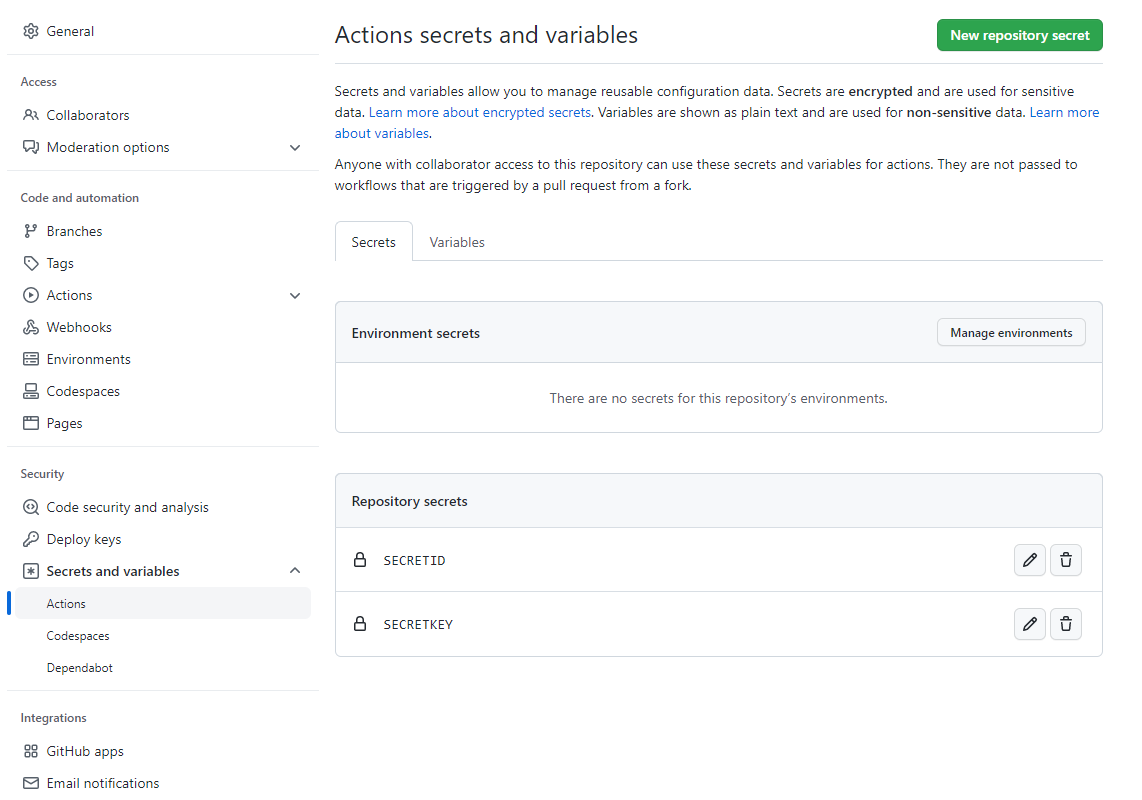
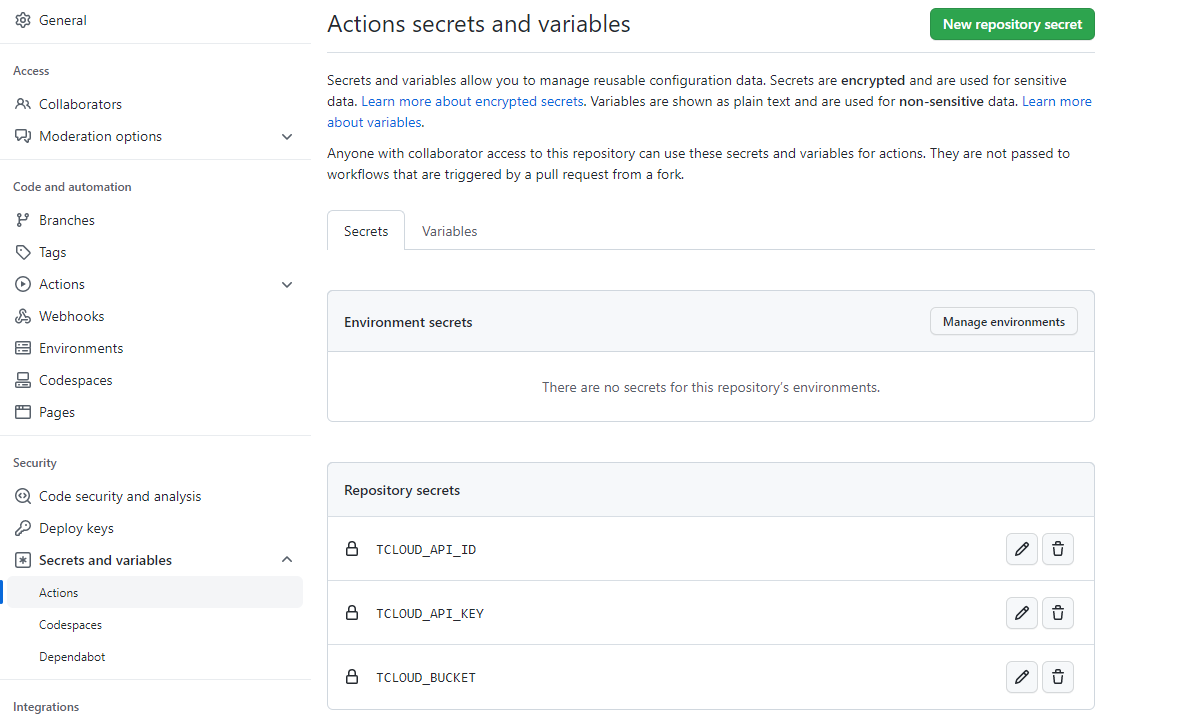
Site updated: 2023-02-14 22:53:32

diff --git a/7237598ddf6f/index.html b/7237598ddf6f/index.html
@@ -36,7 +36,7 @@
 <meta property="og:image" content="https://www.xdeandtom.asia/img/githubpagescdn6.png">
 <meta property="og:image" content="https://www.xdeandtom.asia/img/githubpagescdn7.png">
 <meta property="article:published_time" content="2023-02-09T14:29:09.000Z">
-<meta property="article:modified_time" content="2023-02-14T14:13:42.587Z">
+<meta property="article:modified_time" content="2023-02-14T14:53:16.436Z">
 <meta property="article:author" content="XDEandTOM">
 <meta property="article:tag" content="Github Pages">
 <meta property="article:tag" content="CDN">
@@ -207,7 +207,7 @@
                   <i class="far fa-calendar-check"></i>
                 </span>
                 <span class="post-meta-item-text">更新于</span>
-                <time title="修改时间：2023-02-14 22:13:42" itemprop="dateModified" datetime="2023-02-14T22:13:42+08:00">2023-02-14</time>
+                <time title="修改时间：2023-02-14 22:53:16" itemprop="dateModified" datetime="2023-02-14T22:53:16+08:00">2023-02-14</time>
               </span>
             <span class="post-meta-item">
               <span class="post-meta-item-icon">
@@ -263,9 +263,9 @@
 <p>照着上面表格填就可以达到负载均衡的效果了<br><del>这样貌似还能加速网站的速度?我不知道,我也不晓得</del></p>
 <h2 id="Github-Actions-COS-CDN"><a href="#Github-Actions-COS-CDN" class="headerlink" title="Github Actions+COS+CDN"></a>Github Actions+COS+CDN</h2><h3 id="个人感觉这个是最好的方法了"><a href="#个人感觉这个是最好的方法了" class="headerlink" title="个人感觉这个是最好的方法了"></a>个人感觉这个是最好的方法了</h3><h3 id="创建COS"><a href="#创建COS" class="headerlink" title="创建COS"></a>创建COS</h3><p>进入<a target="_blank" rel="noopener" href="https://console.cloud.tencent.com/cos">COS控制台</a> 选择新建储存桶<br>地区可以选择离自己近点的地方 (没有备案推荐选香港)<br>访问权限选择公有读私有写<br><img data-src="/img/githubpagescdn4.png" alt="腾讯COS"><br>在左边的菜单找到基础配置 接着点击静态网站<br>把静态网站打开就行了 (推荐打开强制HTTPS)<br><img data-src="/img/githubpagescdn5.png" alt="腾讯COS">  </p>
 <h3 id="添加CDN"><a href="#添加CDN" class="headerlink" title="添加CDN"></a>添加CDN</h3><p>接着打开<a target="_blank" rel="noopener" href="https://console.cloud.tencent.com/cdn">腾讯云CDN控制台</a> 新建一个域名<br>步骤就和<a href="#%E5%BC%80%E6%95%B4">这里</a> 差不多 就不讲了 直接跳到源站配置<br>跟着下面选就好了 然后保存就行了 (注意添加访问权限)<br><img data-src="/img/githubpagescdn6.png" alt="腾讯COS">  </p>
-<h3 id="添加密钥"><a href="#添加密钥" class="headerlink" title="添加密钥"></a>添加密钥</h3><p>这里要在添加腾讯云账号的API密钥<br>可以在<a target="_blank" rel="noopener" href="https://console.cloud.tencent.com/cam/capi">API密钥管理</a> 获取<br>打开Github仓库的Settings 找到Actions secrets and variables<br>然后点击New repository secret<br>分别添加<code>SECRET_ID</code>和<code>SECRET_KEY</code><br><img data-src="/img/githubpagescdn7.png" alt="API">  </p>
+<h3 id="添加密钥"><a href="#添加密钥" class="headerlink" title="添加密钥"></a>添加密钥</h3><p>这里要在添加腾讯云账号的API密钥<br>可以在<a target="_blank" rel="noopener" href="https://console.cloud.tencent.com/cam/capi">API密钥管理</a> 获取<br>打开Github仓库的Settings 找到Actions secrets and variables<br>然后点击New repository secret<br>分别新建三条条名为<code>TCLOUD_API_ID</code>和<code>TCLOUD_API_KEY</code>,<code>TCLOUD_BUCKET</code>，值为腾讯云API秘钥SecretId与SecretKey还有储存桶名称的secret<br><img data-src="/img/githubpagescdn7.png" alt="API">  </p>
 <h3 id="新建Workflows"><a href="#新建Workflows" class="headerlink" title="新建Workflows"></a>新建Workflows</h3><p>在Actions中选择New workflows 然后选择set up a workflow yourself<br>这时候就会自动新建一个空白的文件 然后把下面的代码复制进去就好了  </p>
-<figure class="highlight txt"><table><tr><td class="gutter"><pre><span class="line">1</span><br><span class="line">2</span><br><span class="line">3</span><br><span class="line">4</span><br><span class="line">5</span><br><span class="line">6</span><br><span class="line">7</span><br><span class="line">8</span><br><span class="line">9</span><br><span class="line">10</span><br><span class="line">11</span><br><span class="line">12</span><br><span class="line">13</span><br><span class="line">14</span><br><span class="line">15</span><br><span class="line">16</span><br><span class="line">17</span><br><span class="line">18</span><br><span class="line">19</span><br><span class="line">20</span><br><span class="line">21</span><br><span class="line">22</span><br></pre></td><td class="code"><pre><span class="line">name: Upload to COS</span><br><span class="line"></span><br><span class="line">on: [push]</span><br><span class="line"></span><br><span class="line">jobs:</span><br><span class="line">  build:</span><br><span class="line"></span><br><span class="line">    runs-on: ubuntu-latest</span><br><span class="line"></span><br><span class="line">    steps:</span><br><span class="line">    - uses: actions/checkout@v1</span><br><span class="line">    - name: Install coscmd</span><br><span class="line">      run: sudo pip install coscmd</span><br><span class="line">    - name: Configure coscmd</span><br><span class="line">      env:</span><br><span class="line">        SECRET_ID: $&#123;&#123; secrets.SecretId &#125;&#125;</span><br><span class="line">        SECRET_KEY: $&#123;&#123; secrets.SecretKey &#125;&#125;</span><br><span class="line">        BUCKET: 储存桶的名称</span><br><span class="line">        REGION: 储存桶的地区 比如ap-guangzhou</span><br><span class="line">      run: coscmd config -a $SECRET_ID -s $SECRET_KEY -b $BUCKET -r $REGION</span><br><span class="line">    - name: Upload</span><br><span class="line">      run: coscmd upload -rs --delete -f ./ / --ignore &quot;./.git/*&quot;</span><br></pre></td></tr></table></figure>
+<figure class="highlight yml"><table><tr><td class="gutter"><pre><span class="line">1</span><br><span class="line">2</span><br><span class="line">3</span><br><span class="line">4</span><br><span class="line">5</span><br><span class="line">6</span><br><span class="line">7</span><br><span class="line">8</span><br><span class="line">9</span><br><span class="line">10</span><br><span class="line">11</span><br><span class="line">12</span><br><span class="line">13</span><br><span class="line">14</span><br><span class="line">15</span><br><span class="line">16</span><br><span class="line">17</span><br><span class="line">18</span><br><span class="line">19</span><br><span class="line">20</span><br><span class="line">21</span><br><span class="line">22</span><br></pre></td><td class="code"><pre><span class="line"><span class="attr">name:</span> <span class="string">Upload</span> <span class="string">to</span> <span class="string">COS</span></span><br><span class="line"></span><br><span class="line"><span class="attr">on:</span> [<span class="string">push</span>]</span><br><span class="line"></span><br><span class="line"><span class="attr">jobs:</span></span><br><span class="line">  <span class="attr">build:</span></span><br><span class="line"></span><br><span class="line">    <span class="attr">runs-on:</span> <span class="string">ubuntu-latest</span></span><br><span class="line"></span><br><span class="line">    <span class="attr">steps:</span></span><br><span class="line">    <span class="bullet">-</span> <span class="attr">uses:</span> <span class="string">actions/checkout@v1</span></span><br><span class="line">    <span class="bullet">-</span> <span class="attr">name:</span> <span class="string">Install</span> <span class="string">coscmd</span></span><br><span class="line">      <span class="attr">run:</span> <span class="string">sudo</span> <span class="string">pip</span> <span class="string">install</span> <span class="string">coscmd</span></span><br><span class="line">    <span class="bullet">-</span> <span class="attr">name:</span> <span class="string">Configure</span> <span class="string">coscmd</span></span><br><span class="line">      <span class="attr">env:</span></span><br><span class="line">        <span class="attr">SECRET_ID:</span> <span class="string">$&#123;&#123;</span> <span class="string">secrets.TCLOUD_API_ID</span> <span class="string">&#125;&#125;</span></span><br><span class="line">        <span class="attr">SECRET_KEY:</span> <span class="string">$&#123;&#123;</span> <span class="string">secrets.TCLOUD_API_KEY</span> <span class="string">&#125;&#125;</span></span><br><span class="line">        <span class="attr">BUCKET:</span> <span class="string">$&#123;&#123;</span> <span class="string">secrets.TCLOUD_BUCKET</span> <span class="string">&#125;&#125;</span></span><br><span class="line">        <span class="attr">REGION:</span> <span class="string">ap-hongkong</span></span><br><span class="line">      <span class="attr">run:</span> <span class="string">coscmd</span> <span class="string">config</span> <span class="string">-a</span> <span class="string">$SECRET_ID</span> <span class="string">-s</span> <span class="string">$SECRET_KEY</span> <span class="string">-b</span> <span class="string">$BUCKET</span> <span class="string">-r</span> <span class="string">$REGION</span></span><br><span class="line">    <span class="bullet">-</span> <span class="attr">name:</span> <span class="string">Upload</span></span><br><span class="line">      <span class="attr">run:</span> <span class="string">coscmd</span> <span class="string">upload</span> <span class="string">-rfs</span> <span class="string">--delete</span> <span class="string">./</span> <span class="string">/</span> <span class="string">--ignore</span> <span class="string">&quot;./.git/*&quot;</span></span><br></pre></td></tr></table></figure>
 
 <p>然后点击右上角绿色的按钮就能保存了<br>然后每次更新仓库都会自动上传到COS里面了</p>
 <h2 id="CLoudflare"><a href="#CLoudflare" class="headerlink" title="CLoudflare"></a>CLoudflare</h2><p><del>负优化 别看了</del></p>

diff --git a/index.html b/index.html
@@ -195,7 +195,7 @@
                   <i class="far fa-calendar-check"></i>
                 </span>
                 <span class="post-meta-item-text">更新于</span>
-                <time title="修改时间：2023-02-14 22:13:42" itemprop="dateModified" datetime="2023-02-14T22:13:42+08:00">2023-02-14</time>
+                <time title="修改时间：2023-02-14 22:53:16" itemprop="dateModified" datetime="2023-02-14T22:53:16+08:00">2023-02-14</time>
               </span>
             <span class="post-meta-item">
               <span class="post-meta-item-icon">
